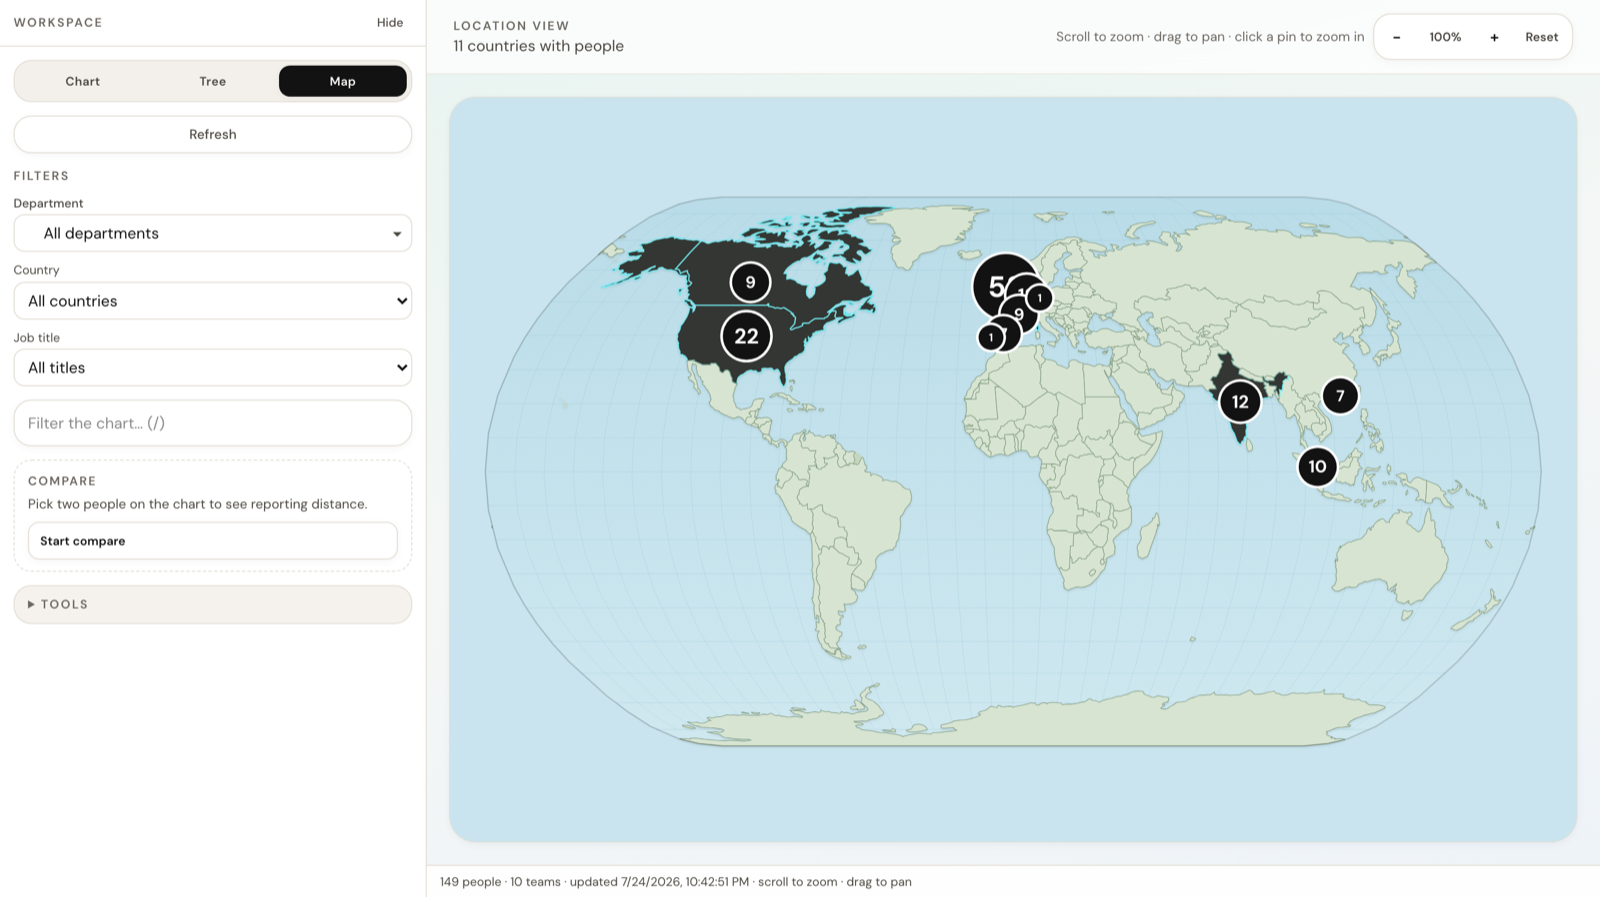
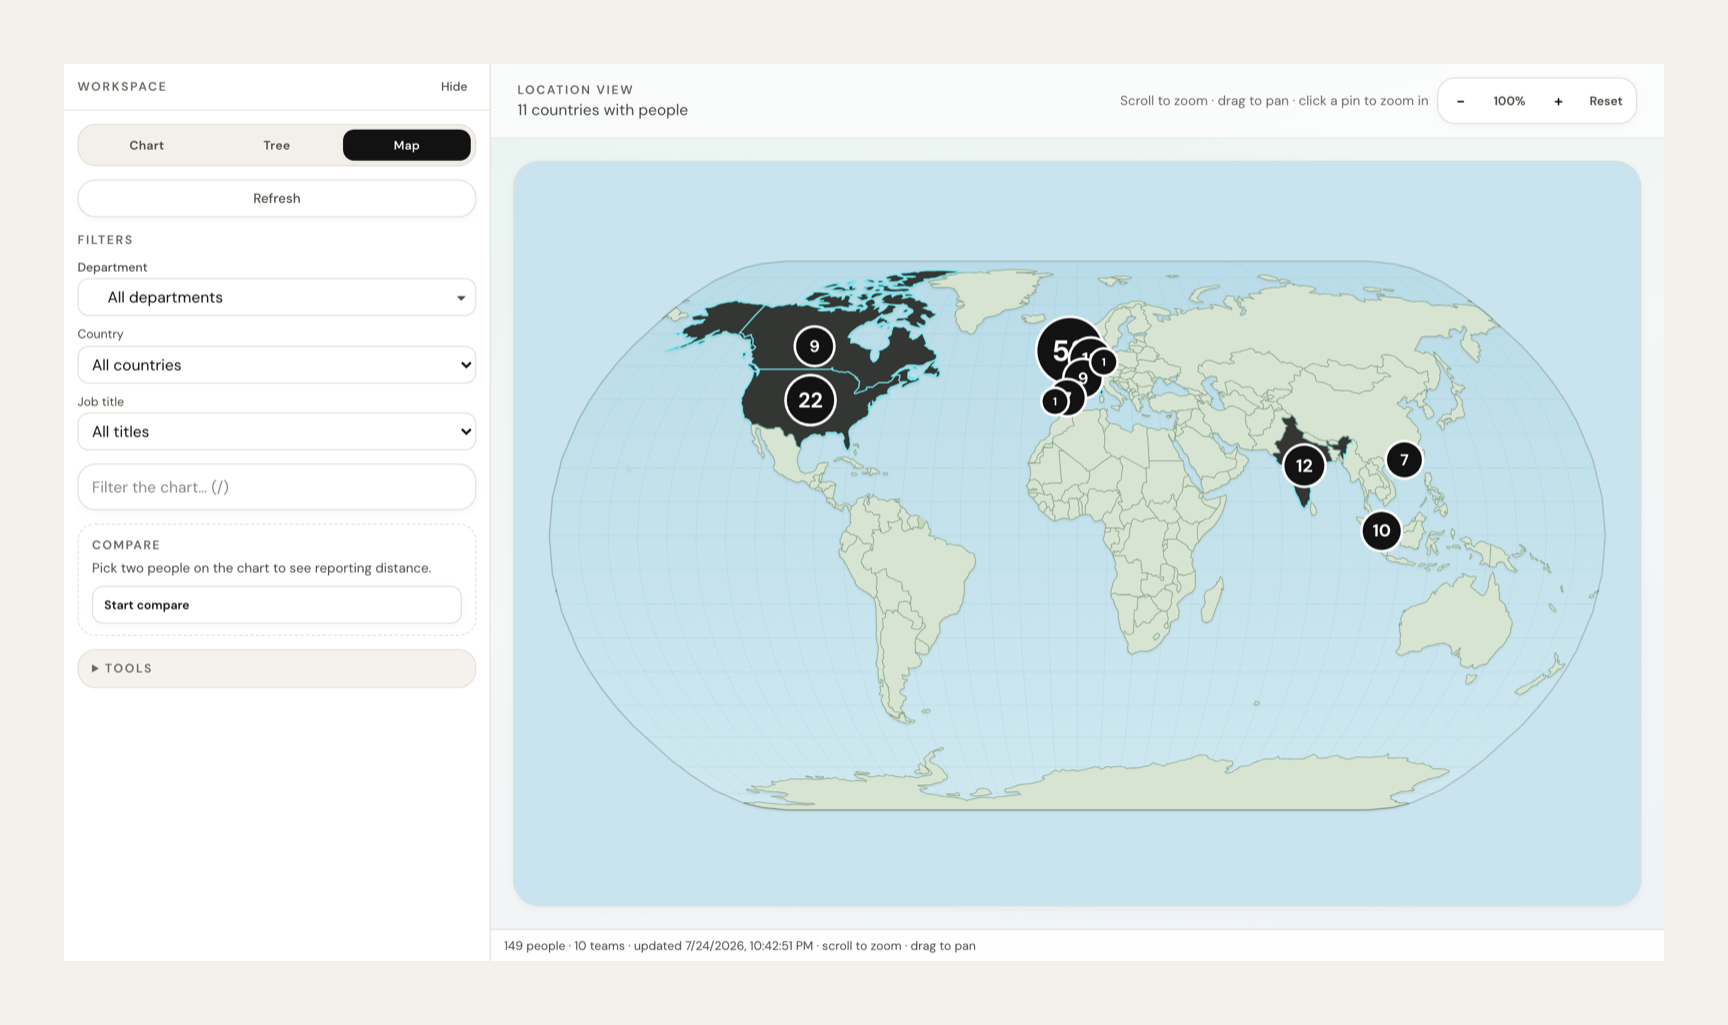
Fix marketing mockups so screenshots are fully visible.
Switch shots from object-cover to contain, add frame padding, and give PNGs a cream margin so sidebars and titles are no longer cropped.

diff --git a/src/components/marketing/MarketingAppShot.tsx b/src/components/marketing/MarketingAppShot.tsx
@@ -11,6 +11,7 @@ type MarketingAppShotProps = {
 
 /**
  * Real product screenshot - used instead of invented marketing mocks.
+ * Uses contain (not cover) so UI chrome and sidebars are never cropped.
  */
 export function MarketingAppShot({
   src,
@@ -23,10 +24,14 @@ export function MarketingAppShot({
     <Image
       src={src}
       alt={alt}
-      width={1600}
-      height={900}
+      width={1728}
+      height={1025}
       priority={priority}
-      className={`h-full w-full object-cover object-top ${framed ? "" : className}`}
+      className={
+        framed
+          ? "h-auto w-full rounded-[0.85rem] object-contain object-top"
+          : `h-auto w-full object-contain object-top ${className}`
+      }
       sizes="(max-width: 768px) 100vw, 60vw"
     />
   );
@@ -37,9 +42,9 @@ export function MarketingAppShot({
 
   return (
     <div
-      className={`overflow-hidden rounded-[1.25rem] border border-norma-border/70 bg-norma-canvas shadow-[0_28px_80px_rgb(18_18_18/0.12)] ring-1 ring-white/70 ${className}`}
+      className={`overflow-hidden rounded-[1.35rem] border border-norma-border/70 bg-norma-canvas shadow-[0_28px_80px_rgb(18_18_18/0.12)] ring-1 ring-white/70 ${className}`}
     >
-      <div className="flex h-10 items-center gap-2 border-b border-norma-border/70 bg-white/80 px-3">
+      <div className="flex h-10 shrink-0 items-center gap-2 border-b border-norma-border/70 bg-white/90 px-3">
         <span className="h-2.5 w-2.5 rounded-full bg-norma-rose" />
         <span className="h-2.5 w-2.5 rounded-full bg-norma-peach" />
         <span className="h-2.5 w-2.5 rounded-full bg-norma-mint" />
@@ -47,7 +52,7 @@ export function MarketingAppShot({
           app.acme
         </span>
       </div>
-      <div className="relative aspect-[16/10] w-full bg-norma-canvas">{image}</div>
+      <div className="bg-norma-canvas p-3 sm:p-4">{image}</div>
     </div>
   );
 }

diff --git a/src/components/marketing/MarketingHero.tsx b/src/components/marketing/MarketingHero.tsx
@@ -47,16 +47,18 @@ export function MarketingHero() {
 
         <div className="marketing-hero-visual relative md:col-span-7">
           <div className="relative">
-            <div className="overflow-hidden rounded-[1.75rem] border border-norma-border/70 bg-white shadow-[0_32px_90px_rgb(18_18_18/0.14)] ring-1 ring-white/80">
-              <Image
-                src="/marketing/hero-org-chart.png"
-                alt="Acme org chart workspace with Chart, Tree, and Map views"
-                width={1600}
-                height={900}
-                priority
-                className="h-auto w-full object-cover object-top"
-                sizes="(max-width: 768px) 100vw, 55vw"
-              />
+            <div className="overflow-hidden rounded-[1.75rem] border border-norma-border/70 bg-norma-canvas shadow-[0_32px_90px_rgb(18_18_18/0.14)] ring-1 ring-white/80">
+              <div className="p-3 sm:p-4">
+                <Image
+                  src="/marketing/hero-org-chart.png"
+                  alt="Acme org chart workspace with Chart, Tree, and Map views"
+                  width={1728}
+                  height={1128}
+                  priority
+                  className="h-auto w-full rounded-[0.85rem] object-contain object-top"
+                  sizes="(max-width: 768px) 100vw, 55vw"
+                />
+              </div>
             </div>
 
             <div className="marketing-float-chip marketing-float-chip-a absolute -left-3 top-[18%] hidden max-w-[13rem] rounded-2xl border border-norma-peach/80 bg-norma-peach/95 px-4 py-3 shadow-norma-md backdrop-blur sm:block md:-left-6">

diff --git a/src/app/page.tsx b/src/app/page.tsx
@@ -104,13 +104,13 @@ export default function MarketingHomePage() {
                     href="/login"
                     className={`marketing-surface-panel group block overflow-hidden rounded-[1.75rem] border border-norma-border/70 bg-gradient-to-b ${surface.accent} shadow-norma-sm`}
                   >
-                    <div className="relative aspect-[16/10] overflow-hidden bg-norma-surface-muted">
+                    <div className="relative aspect-[16/9] overflow-hidden bg-norma-canvas p-3 sm:p-4">
                       <Image
                         src={surface.src}
                         alt={surface.alt}
-                        width={1200}
-                        height={750}
-                        className="h-full w-full object-cover object-top transition duration-500 group-hover:scale-[1.02]"
+                        width={1728}
+                        height={1025}
+                        className="h-full w-full rounded-[0.85rem] object-contain object-top transition duration-500 group-hover:scale-[1.015]"
                         sizes="(max-width: 768px) 100vw, 50vw"
                       />
                     </div>

diff --git a/src/components/marketing/marketing-motion.test.ts b/src/components/marketing/marketing-motion.test.ts
@@ -48,6 +48,13 @@ describe("marketing remote.com structure + real screenshots", () => {
     expect(how).not.toContain("divide-y");
     expect(how).not.toContain("bg-norma-ink text-norma-ink-inverse");
 
+    const shot = readFileSync(
+      join(process.cwd(), "src/components/marketing/MarketingAppShot.tsx"),
+      "utf8",
+    );
+    expect(shot).toContain("object-contain");
+    expect(shot).not.toContain("object-cover");
+
     for (const file of [
       "public/marketing/hero-org-chart.png",
       "public/marketing/app-dashboard.png",
